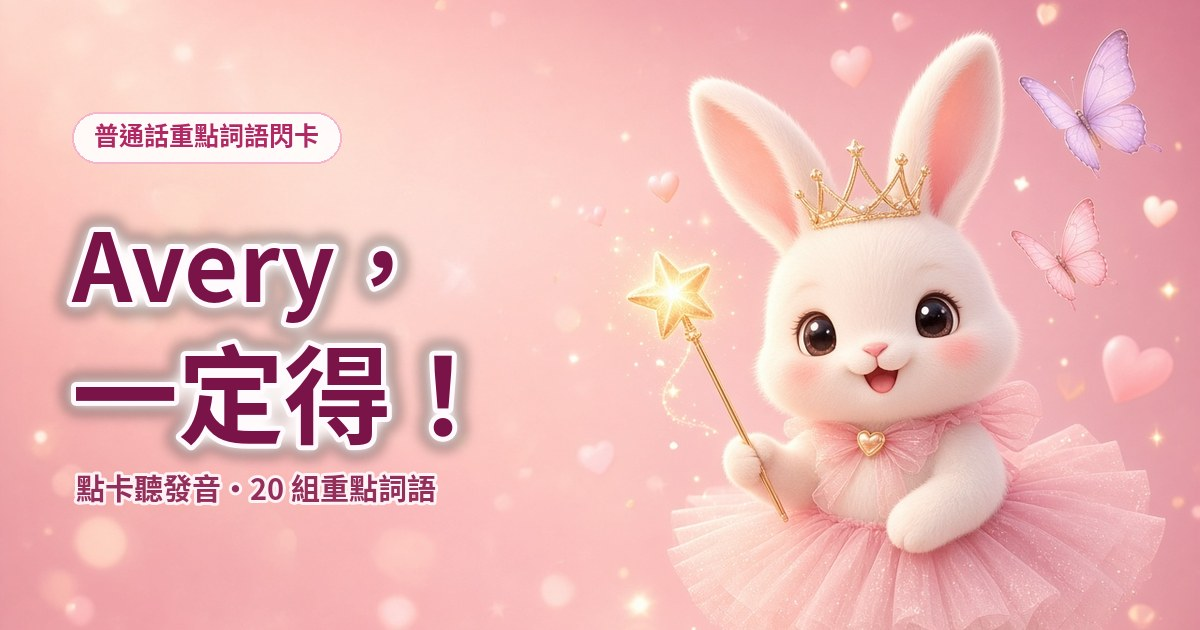
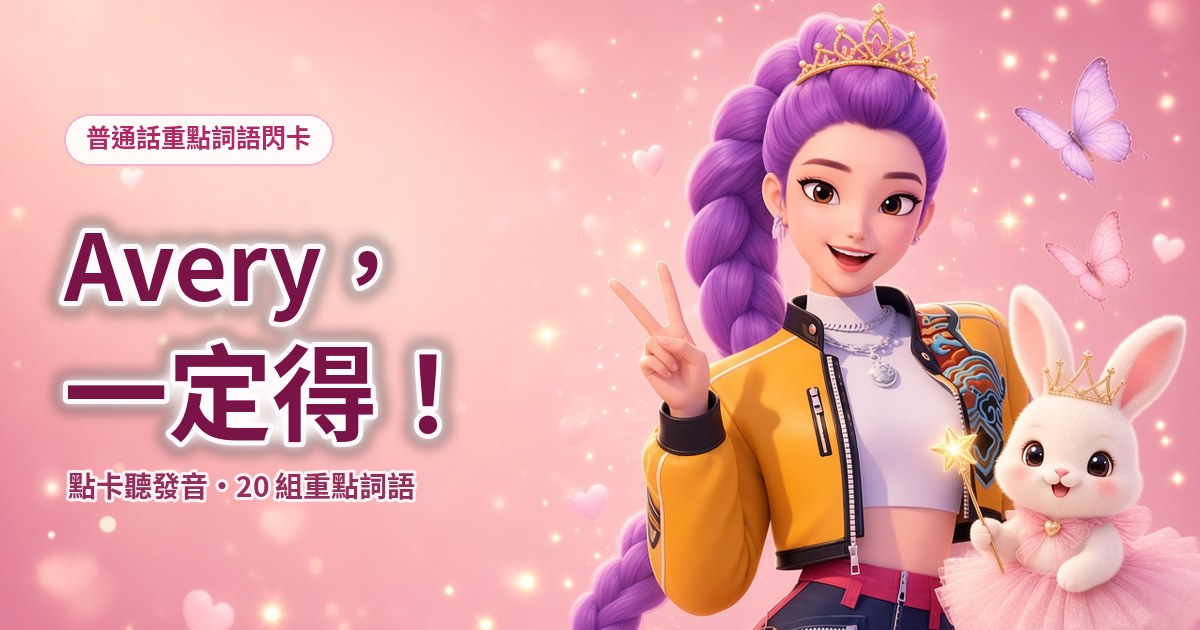
Add Rumi (KPop Demon Hunters) to princess-pink OG cover and bump cache to v3

diff --git a/quiz.html b/quiz.html
@@ -10,14 +10,14 @@
   <meta property="og:url" content="https://hongchongip.github.io/avery-pt-97177ccba9008df927bc/quiz.html" />
   <meta property="og:title" content="Avery，一定得！｜普通話閃卡測驗版" />
   <meta property="og:description" content="隨機 20 個普通話重點詞語，每張卡揀 ✓（啱）或 ✕（唔啱），做完自動出結果總覽。" />
-  <meta property="og:image" content="https://hongchongip.github.io/avery-pt-97177ccba9008df927bc/og-cover-avery.jpg?v=2" />
+  <meta property="og:image" content="https://hongchongip.github.io/avery-pt-97177ccba9008df927bc/og-cover-avery.jpg?v=3" />
   <meta property="og:image:type" content="image/jpeg" />
   <meta property="og:image:width" content="1200" />
   <meta property="og:image:height" content="630" />
   <meta name="twitter:card" content="summary_large_image" />
   <meta name="twitter:title" content="Avery，一定得！｜普通話閃卡測驗版" />
   <meta name="twitter:description" content="隨機 20 個普通話重點詞語，每張卡揀 ✓（啱）或 ✕（唔啱），做完自動出結果總覽。" />
-  <meta name="twitter:image" content="https://hongchongip.github.io/avery-pt-97177ccba9008df927bc/og-cover-avery.jpg?v=2" />
+  <meta name="twitter:image" content="https://hongchongip.github.io/avery-pt-97177ccba9008df927bc/og-cover-avery.jpg?v=3" />
   <style>
     :root {
       --bg: #f6f5f2;

diff --git a/index.html b/index.html
@@ -10,14 +10,14 @@
   <meta property="og:url" content="https://hongchongip.github.io/avery-pt-97177ccba9008df927bc/" />
   <meta property="og:title" content="Avery，一定得！｜普通話重點詞語閃卡" />
   <meta property="og:description" content="點一下聽普通話發音，支援正常速／慢速切換，輕鬆溫習 20 組重點詞語。" />
-  <meta property="og:image" content="https://hongchongip.github.io/avery-pt-97177ccba9008df927bc/og-cover-avery.jpg?v=2" />
+  <meta property="og:image" content="https://hongchongip.github.io/avery-pt-97177ccba9008df927bc/og-cover-avery.jpg?v=3" />
   <meta property="og:image:type" content="image/jpeg" />
   <meta property="og:image:width" content="1200" />
   <meta property="og:image:height" content="630" />
   <meta name="twitter:card" content="summary_large_image" />
   <meta name="twitter:title" content="Avery，一定得！｜普通話重點詞語閃卡" />
   <meta name="twitter:description" content="點一下聽普通話發音，支援正常速／慢速切換，輕鬆溫習 20 組重點詞語。" />
-  <meta name="twitter:image" content="https://hongchongip.github.io/avery-pt-97177ccba9008df927bc/og-cover-avery.jpg?v=2" />
+  <meta name="twitter:image" content="https://hongchongip.github.io/avery-pt-97177ccba9008df927bc/og-cover-avery.jpg?v=3" />
   <style>
     :root {
       --bg: #f6f5f2;
